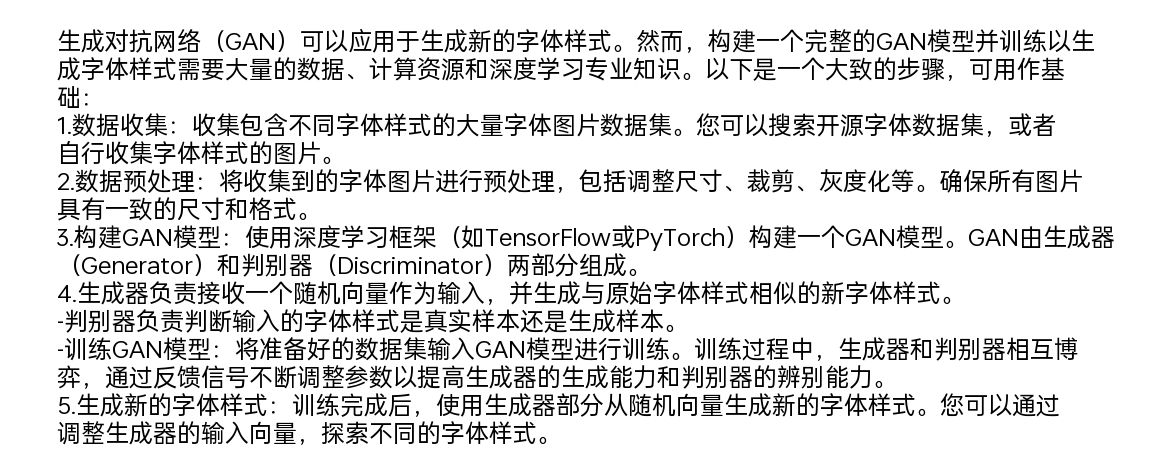
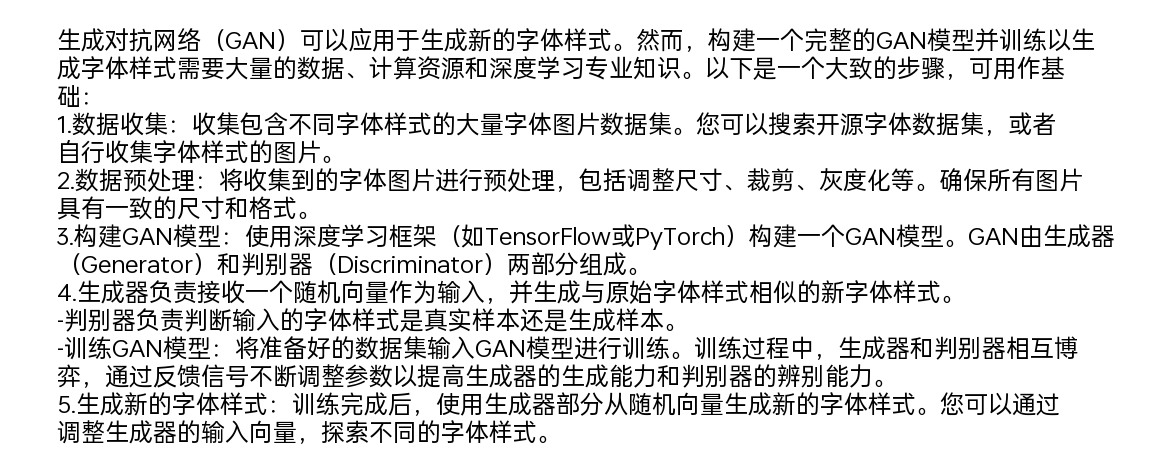
change

Changed region(s): [[0.0312, 0.2144, 0.9671, 0.9803], [0.0312, 0.0613, 0.9359, 0.2144]]

diff --git a/src/generate_text_image.py b/src/generate_text_image.py
@@ -40,7 +40,7 @@ def split_text_by_language(text, max_chars_per_line):
 def estimate_character_size(font_file, font_size):
     '''估算特定字体和字号下字符的大致像素宽度和高度'''
     font = ImageFont.truetype(font_file, font_size)
-    character = "来"  # 选择一个具有代表性的字符
+    character = "圆"  # 选择一个具有代表性的字符
     left, top, right, bottom = font.getbbox(character)
     width = abs(right - left) + 0.5
     height = abs(bottom - top) + 0.5
@@ -75,6 +75,21 @@ def find_longest_length(array):
     return longest_length
 
 
+def read_file(file_path, max_chars_per_line):
+    '''读取并处理txt文件内容'''
+    with open(file_path, 'r', encoding='utf-8') as txt_file:
+        text = txt_file.read()
+
+    # 计算文本行数和图片大小
+    lines = []
+    for line in text.split('\n'):
+        for temp in split_text_by_language(line, max_chars_per_line):
+            lines.append(temp)
+    print(lines)
+
+    return lines
+
+
 def generate_text_image(input_file,
                         output_file,
                         font_file='Data/OPlusSans.ttf',
@@ -90,34 +105,23 @@ def generate_text_image(input_file,
     font_size = 24
     font = ImageFont.truetype(font_file, font_size)
 
-    # 读取txt文件内容
-    with open(input_file, 'r') as txt_file:
-        text = txt_file.read()
-
     # 计算文本行数和图片大小
-    lines = []
-    for line in text.split('\n'):
-        for temp in split_text_by_language(line, max_chars_per_line):
-            lines.append(temp)
-    print(lines)
-    num_lines = len(lines)
-    print(num_lines)
-
-    max_line_length = find_longest_length(lines)
+    lines = read_file(input_file, max_chars_per_line=max_chars_per_line)
     font_width, font_height = estimate_character_size(font_file, font_size)
-    image_width = int(max_line_length * (font_width + 4))  # 假设每个字符占用20个像素的宽度
-    image_height = int(num_lines * (font_height + 8))  # 假设每行文本占用40个像素的高度
+    image_width = int(find_longest_length(lines) *
+                      (font_width + 4))  # 设定每个字符的宽度
+    image_height = int(len(lines) * (font_height + 8))  # 设定每行文本的高度
 
     # 创建空白图片
     image = Image.new('RGB', (image_width, image_height), 'white')
     draw = ImageDraw.Draw(image)
 
     # 在图片上绘制文本,设置5%的上边距
-    y = image_height * 0.05
+    margin_top = image_height * 0.05
     for line in lines:
-        x = image_width * 0.05
-        draw.text((x, y), line, font=font, fill='black')
-        y += font_size + 4  # 行间距设为4个像素
+        margin_left = image_width * 0.05
+        draw.text((margin_left, margin_top), line, font=font, fill='black')
+        margin_top += font_size + 4  # 行间距设为4个像素
 
     # 保存图片
     image.save(output_file)
